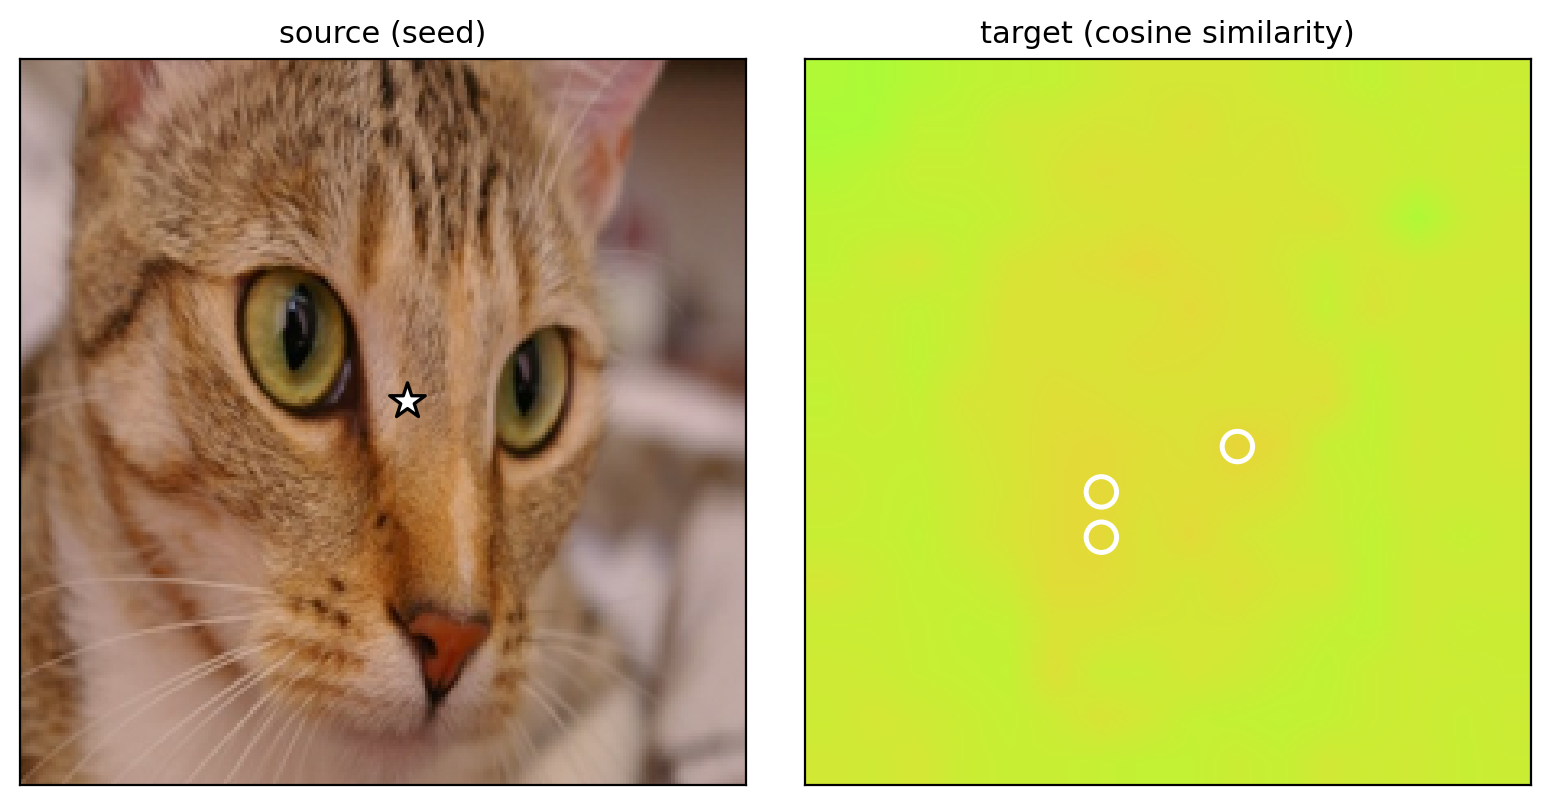
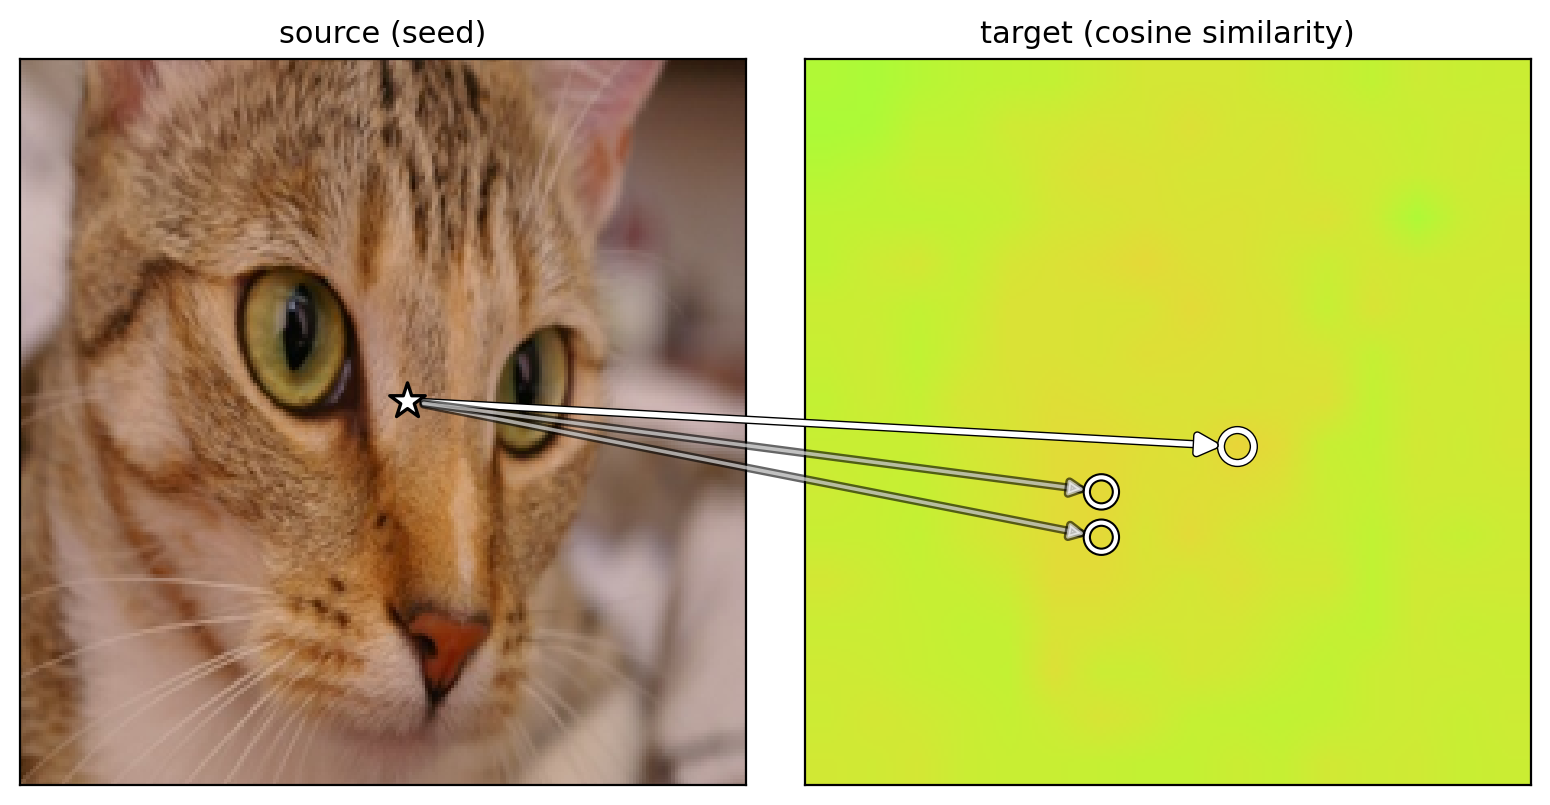
correspond: draw arrows from the seed to each top-k match
Connect the seed (panel A) to each top-k match (panel B) with a ConnectionPatch arrow across
the two axes; the best match is drawn boldest, the rest thinner and semi-transparent. Toggle
with arrows=False. Regenerated examples/correspond.png.

Changed region(s): [[0.2787, 0.4969, 0.8052, 0.6832]]

diff --git a/featlens/correspond.py b/featlens/correspond.py
@@ -41,12 +41,15 @@ def correspond(
     device: Optional[str] = None,
     colormap: str = "turbo",
     interpolation_size: int = 224,
+    arrows: bool = True,
     out: Optional[Union[str, Path]] = None,
 ):
     """Render seed-patch correspondence between two images.
 
     Left: image A with the seed patch marked. Right: image B as a cosine-similarity heatmap with
-    the top-``topk`` matching patches marked. Returns the saved path (if ``out``) or the figure.
+    the top-``topk`` matching patches marked. When ``arrows`` is set (default), a line is drawn
+    from the seed to each match across the two panels. Returns the saved path (if ``out``) or the
+    figure.
     """
     from PIL import Image
 
@@ -74,7 +77,7 @@ def correspond(
 
     return _compose_pair(
         src_a, heat_up, (r, c), [divmod(int(i), w) for i in top_cells], (h, w),
-        interpolation_size, out)
+        interpolation_size, arrows, out)
 
 
 # ---- rendering helpers ----------------------------------------------------
@@ -92,10 +95,12 @@ def _interp_rgb(rgb: np.ndarray, size: int) -> np.ndarray:
     return t[0].permute(1, 2, 0).numpy()
 
 
-def _compose_pair(src_a, heat_b, seed_cell, match_cells, grid_hw, size, out):
+def _compose_pair(src_a, heat_b, seed_cell, match_cells, grid_hw, size, arrows, out):
     import matplotlib
     matplotlib.use("Agg")
     import matplotlib.pyplot as plt
+    import matplotlib.patheffects as pe
+    from matplotlib.patches import ConnectionPatch
 
     h, w = grid_hw
     sy, sx = (seed_cell[0] + 0.5) / h * size, (seed_cell[1] + 0.5) / w * size
@@ -105,10 +110,24 @@ def _compose_pair(src_a, heat_b, seed_cell, match_cells, grid_hw, size, out):
     axes[0].scatter([sx], [sy], s=180, marker="*", c="white", edgecolors="black", linewidths=1.2)
     axes[0].set_title("source (seed)", fontsize=11)
     axes[1].imshow(np.clip(heat_b, 0, 1))
-    for (my, mx) in match_cells:
+    outline = [pe.withStroke(linewidth=3.0, foreground="black")]
+    for rank, (my, mx) in enumerate(match_cells):
         py, px = (my + 0.5) / h * size, (mx + 0.5) / w * size
-        axes[1].scatter([px], [py], s=120, marker="o", facecolors="none",
-                        edgecolors="white", linewidths=1.8)
+        best = rank == 0
+        axes[1].scatter([px], [py], s=140 if best else 110, marker="o", facecolors="none",
+                        edgecolors="white", linewidths=2.0 if best else 1.5,
+                        path_effects=outline)
+        if arrows:
+            # An arrow from the seed (panel A) to this match (panel B), drawn across both axes.
+            con = ConnectionPatch(
+                xyA=(sx, sy), coordsA=axes[0].transData,
+                xyB=(px, py), coordsB=axes[1].transData,
+                arrowstyle="-|>", color="white", linewidth=2.0 if best else 1.3,
+                mutation_scale=16 if best else 11, alpha=1.0 if best else 0.6,
+                shrinkA=6, shrinkB=6, zorder=5)
+            con.set_path_effects(outline)
+            con.set_clip_on(False)
+            fig.add_artist(con)
     axes[1].set_title("target (cosine similarity)", fontsize=11)
     for ax in axes:
         ax.set_xticks([]); ax.set_yticks([])